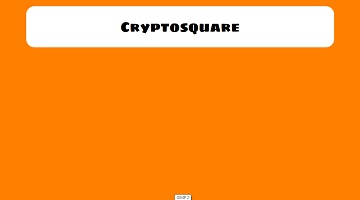
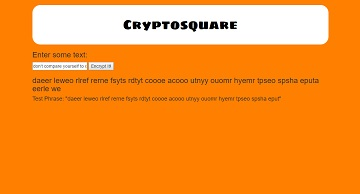
encrypt user's phrase and display as desired

diff --git a/js/scripts.js b/js/scripts.js
@@ -1,1 +1,36 @@
 //alert("jQuery is working on " + $("h1").text()); //test for jQuery linked and loaded correctly
+
+function stripXtraCharacters(str) {
+  str=str.split("");
+  for(i=0;i<=str.length;i++) {
+    //eliminate spaces
+    if (str[i]===" ") {
+      str[i]="";
+    }
+    //eliminate punctuation
+    if (str[i]==="." || str[i]==="?" || str[i]==="," || str[i]==="!" || str[i]===";" || str[i]===":" || str[i]==="-" || str[i]==="'") {
+      str[i]="";
+    }
+  }
+  return str.join("");
+}
+
+$("#encryptText").click(function() {
+  var cleanedText = stripXtraCharacters($("#yourText").val().toLowerCase());
+  var squareSize = Math.ceil(Math.sqrt(cleanedText.length));
+  var cryptosquare = cleanedText.split("");
+  var encryptedText=[];
+  var counter=0;
+  for(j=0;j<squareSize;j++){
+    for(i=j;i<cryptosquare.length;i+=squareSize-1){
+      encryptedText.push(cleanedText[i]);
+      counter++;
+      alert(counter);
+      if(counter===5) {
+        encryptedText.push(" ");
+        counter=0;
+      }
+    }
+  }
+  $("#results").text(encryptedText.join(""));
+});

diff --git a/index.html b/index.html
@@ -12,6 +12,12 @@
   <body>
     <div class="container">
       <h1>Cryptosquare</h1>
+      <h3>Enter some text:</h3>
+      <input id="yourText"> <button id="encryptText">Encrypt It!</button>
+      <h3 id="results"></h3>
+      <!--
+      <h4>Test Phrase: "daeer leweo rlref rerne fsyts rdtyt coooe acooo utnyy ouomr hyemr tpseo spsha eput"</h4>
+      -->
     </div>
   <script src="js/jquery-1.12.2.js"></script>
   <script src="js/bootstrap.js"></script>

diff --git a/README.md b/README.md
@@ -1,7 +1,7 @@
 # [Cryptosquare](http://karenfreemansmith.github.io/cryptosquare)
 ![project screenshot](/img/screenshot.jpg)
 
-__Version 1: April 18, 2016__
+__Version 1: April 25, 2016__
 ## by [Karen Freeman-Smith](http://karenfreemansmith.github.io)
 
 ### Description
@@ -9,13 +9,11 @@ __*A webpage that does cryptosquares.*__
 
 [A classic method for composing secret messages is called a square code.](https://www.learnhowtoprogram.com/intro-to-programming/arrays-looping/practice-roman-numerals)
 
-The spaces and punctuation are removed from the English text and the characters are written into a square (or rectangle) and the entire message is downcased. For example, the sentence "don't compare yourself to others, compare yourself to the person you were yesterday" is 69 characters long, so it is written into a rectangle with 8 rows and 9 columns.
-
-Write a program that, given a block of text, outputs the encoded version of that text.
-
-The size of the square (number of columns) should be decided by the length of the message. If the message is a length that creates a perfect square (e.g. 4, 9, 16, 25, 36, etc), use that number of columns. If the message doesn't fit neatly into a square, choose the number of columns that corresponds to the smallest square that is larger than the number of characters in the message.
-
-Output the encoded text in groups of five letters.
+* collect text from user with form
+* strip text of spaces and punctuation
+* all letters should be lower case
+* encrypted phrase reads "down" instead of across square (see link above)
+* display encoded message in "words" of 5 letters each
 
 #### Uses:
 * [Fresh Start](http://karenfreemansmith.github.io/freshstart)
@@ -27,7 +25,7 @@ Output the encoded text in groups of five letters.
 For questions or comments, please __email [Karen](karenfreemansmith@gmail.com)__
 
 ### Known Issues
-* Still Under Construction
+* Common punctuation is handled, but not less common characters
 
 ### Technologies Used
 ###### HTML, CSS, Bootstrap, JavaScript, jQuery
